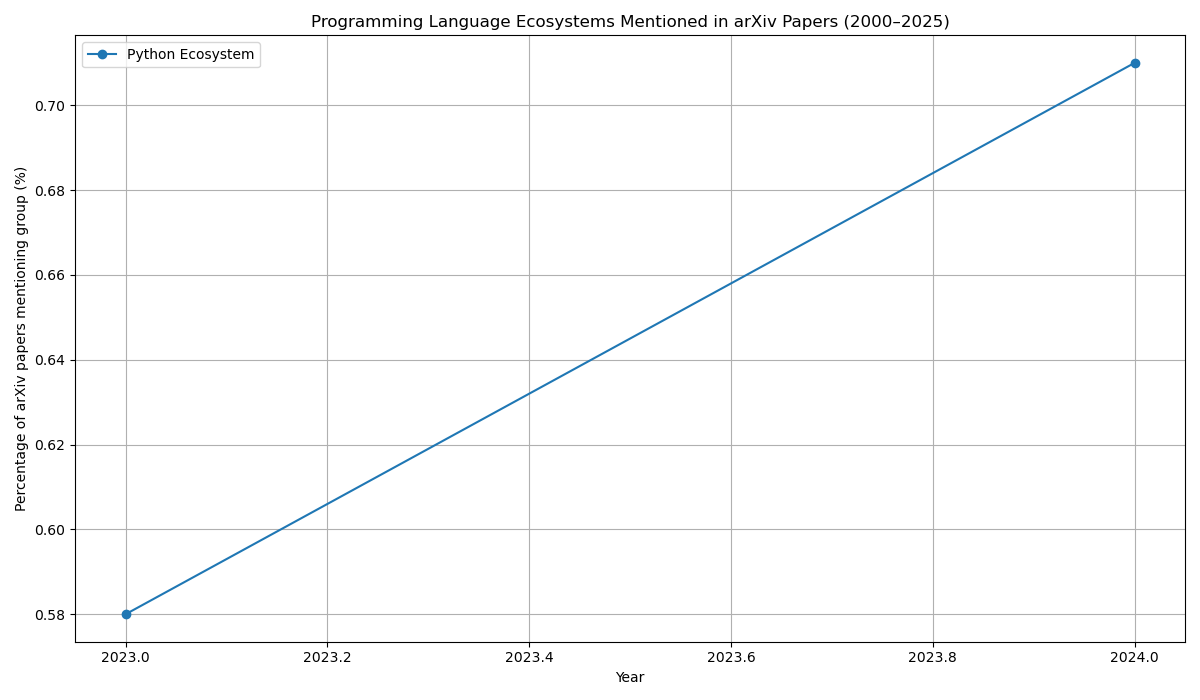
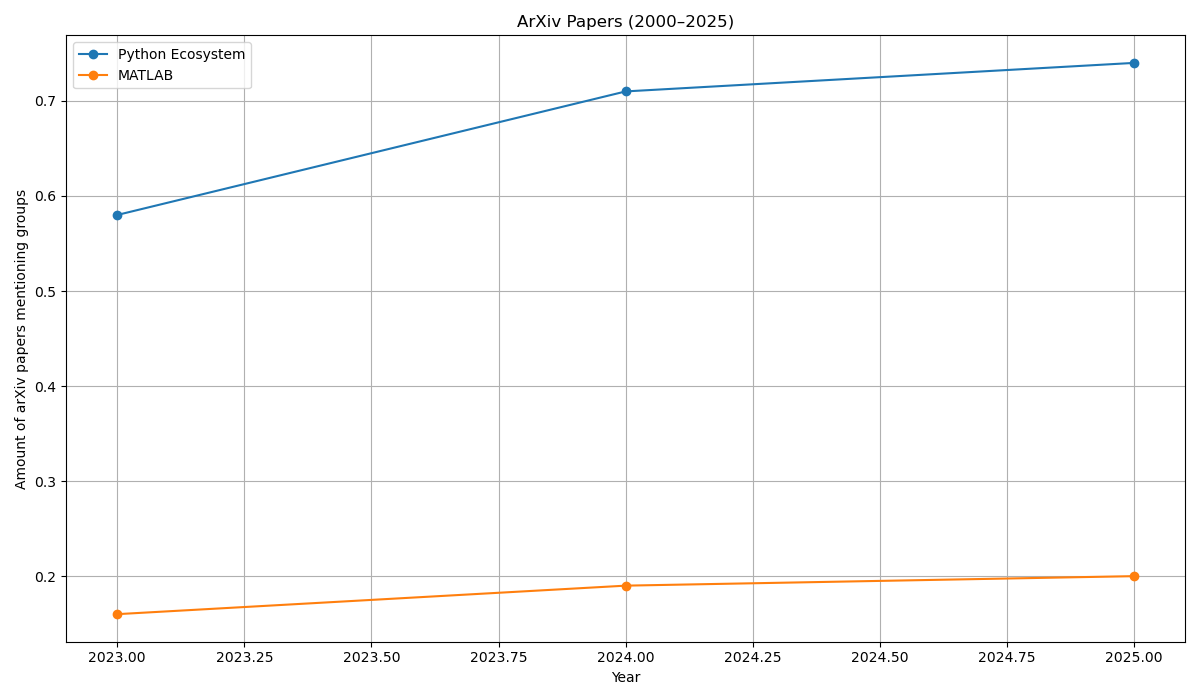
update arxive search

diff --git a/P5/08-Advanced_Traffic_TA_Class/serach_arxive.py b/P5/08-Advanced_Traffic_TA_Class/serach_arxive.py
@@ -53,7 +53,7 @@ class SearchArxivOAI:
                 "from": from_date,
                 "until": until_date})
 
-    def fit(self):
+    def fit(self) -> tuple:
         """Loop over years and keyword groups, counting papers per year."""
         for group_name, keywords in zip(self.group_names, self.keyword_groups):
             self.count_data[group_name] = {}
@@ -80,8 +80,10 @@ class SearchArxivOAI:
         self.count_data_frame.to_csv(SearchArxivOAI._result_path / "arxiv_language_group_counts.csv")
         self.count_percent_frame.to_csv(SearchArxivOAI._result_path / "arxiv_language_group_percent.csv")
         self.saved_papers_frame.to_csv(SearchArxivOAI._result_path / "arxiv_language_group_papers.csv")
+        
+        return self.count_data_frame, self.count_percent_frame, self.saved_papers_frame
 
-    def get_group_count(self, keywords: list, year: int) -> int:
+    def get_group_count(self, keywords: list, year: int) -> tuple:
         """
         Counts unique papers mentioning any of the keywords in a given year.
         Each paper is counted once even if it matches multiple keywords.
@@ -108,17 +110,17 @@ class SearchArxivOAI:
 
         return len(seen_ids), papers, count
 
-    def plot_results(self, data: pd.DataFrame):
+    def plot_results(self, data: pd.DataFrame, name: str):
         plt.figure(figsize=(12, 7))
         for group in self.group_names:
             plt.plot(data.index, data[group], label=group, marker='o')
 
         plt.xlabel("Year")
-        plt.ylabel(f"Amount of arXiv papers mentioning groups")
-        plt.title("ArXiv Papers (2000–2025)")
+        plt.ylabel(f"Amount of arXiv papers mentioning in {self.max_number_in_year} papers in total.")
+        plt.title(f"ArXiv Papers ({self.start_year}–{self.end_year})")
         plt.legend()
         plt.grid(True)
         plt.tight_layout()
-        plt.savefig(SearchArxivOAI._result_path / "arxiv_language_group_trends.png")
+        plt.savefig(SearchArxivOAI._result_path / f"arxiv_language_{name}.png")
         plt.show()
 
